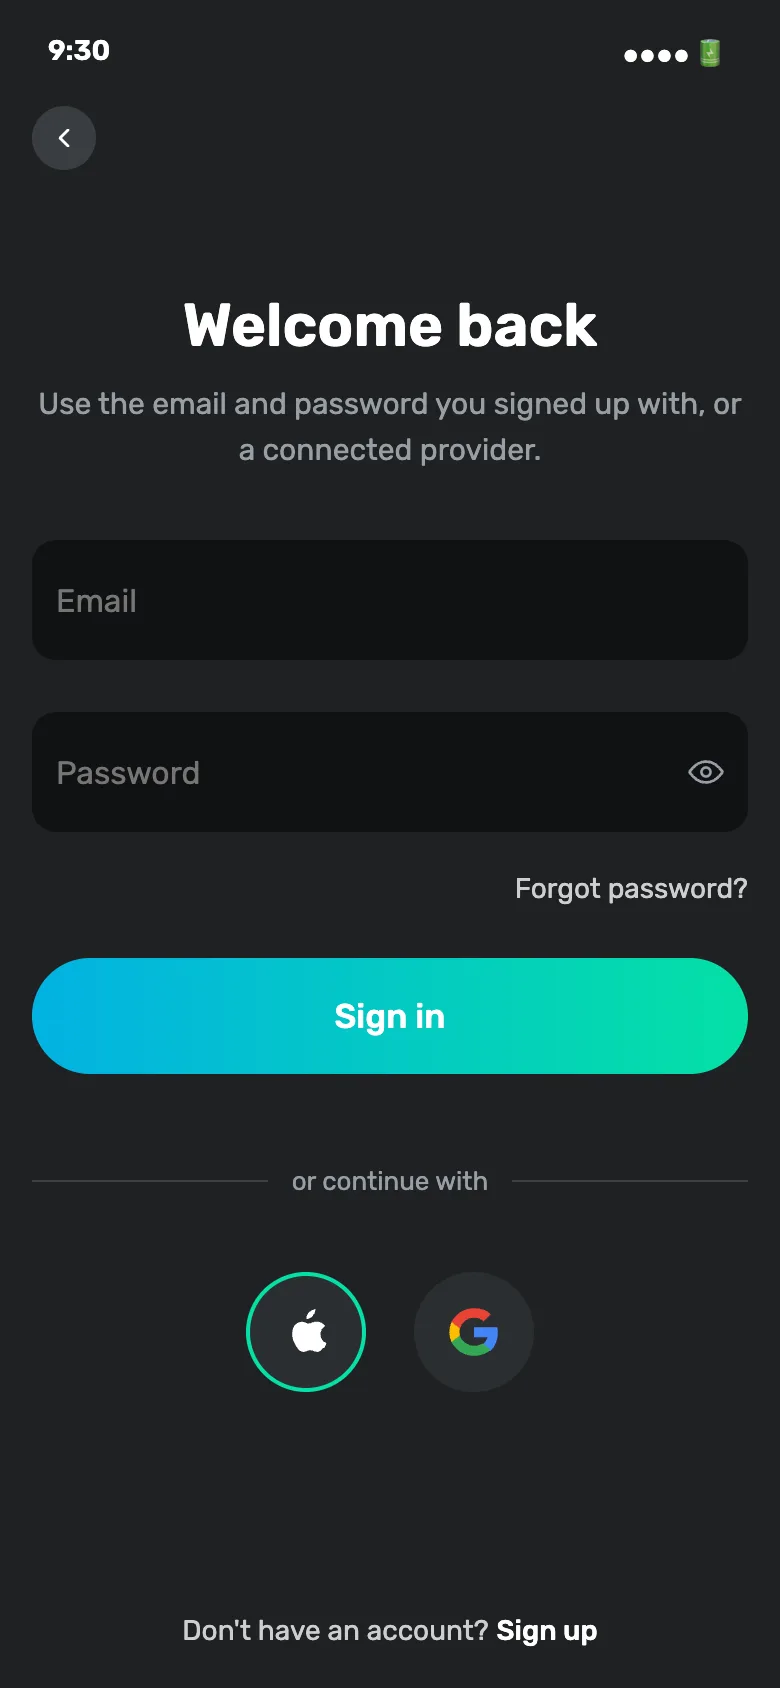
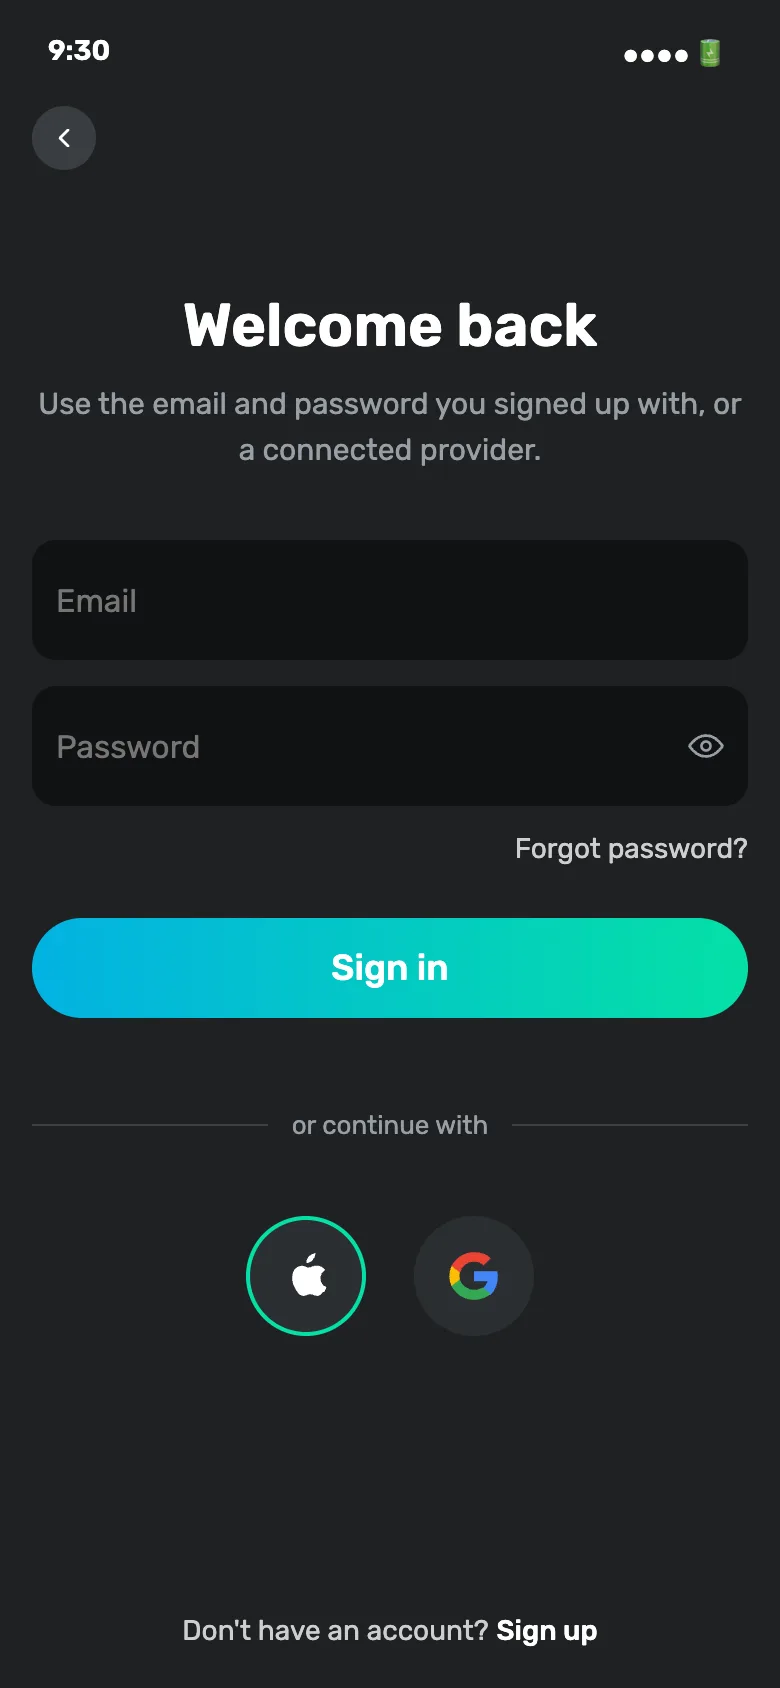
Auth: standard button, and the air belongs between groups not inside one
Two corrections, and the second is the more useful one.

The CTA is back to the kit's 50px. I had grown it to 58 to keep up with the
bigger heading, which is exactly the reflex a design system exists to stop: the
button did not need to change for the screen to feel generous.

Field gap 26 to 13. The rule that fell out of it: the air belongs BETWEEN
groups, not inside one — and two fields are one group. Widening the gap between
them was pulling the form apart rather than giving it rhythm.

Pinned "Forgot password?" at its own offset so it did not silently halve along
with the field gap. The distance from the password to its own footnote is a
separate decision from the distance between two fields.

Measured after: the provider row ends 664px from the top against 698 before and
601 in the old tight layout, the CTA 505 against 539 and 458. So most of the
overshoot I had recorded as the cost of this layout was really the inflated gap
and button — on an SE-class screen the CTA now clears comfortably and the
circles sit right at the fold rather than below it.

diff --git a/prototypes/flows/shared/auth.html b/prototypes/flows/shared/auth.html
@@ -281,16 +281,21 @@
      groups. Ours was top-anchored AND tight, and only the first half of that
      was getting blamed. So: anchor untouched, air doubled.
        heading   24 -> 30px, and it starts lower down the screen
-       fields    56 -> 60px, gap between them 20 -> 26
+       fields    56 -> 60px, and the gap between them 20 -> 13: the air belongs
+                 between GROUPS, not inside one, and two fields are one group
        groups    every seam between two groups roughly doubled
+       button    left at the kit's 50px — it did not need to grow to keep up
      Nothing here moves when the keyboard opens, because nothing is centred. */
   .au-air .au-page-head { text-align: center; padding: 44px 16px 34px; }
   .au-air .au-page-title { font-size: 30px; line-height: 1.2; margin-bottom: 10px; }
   .au-air .au-page-sub { font-size: 15px; line-height: 1.5; }
   .au-air .fit-input { height: 60px; }
-  .au-air .fit-input-group { margin-bottom: 26px; }
+  .au-air .fit-input-group { margin-bottom: 13px; }
+  /* Pinned, so it does not shrink along with the field gap — the distance from
+     the password to its own footnote is a separate decision from the distance
+     between two fields. */
+  .au-air .au-forgot-link-wrap { margin-top: 7px; }
   .au-air .au-cta-wrap { padding: 26px 16px 0; }
-  .au-air .fit-btn-primary { height: 58px; font-size: 17px; }
   .au-air .au-or { padding: 46px 16px 34px; }
   .au-air .au-circle-row { gap: 24px; }
   .au-air .au-provider-circle { width: 60px; height: 60px; }
@@ -1200,7 +1205,7 @@
     <ul>
       <li>Inputs: canonical <code>fit-input-group</code> + <code>fit-input</code>, <strong>no <code>fit-input-label</code></strong>. Two fields whose names are one word each — a label above a placeholder that says the same thing is the label twice. The rule: <em>the label or the placeholder names the field, never both</em>. Keep the label where the placeholder is a format hint instead of a name (phone, the recovery screens).</li>
       <li>Providers: <strong>circles</strong> — kit <code>fit-icon-btn</code> + page-local <code>au-provider-circle</code> (32 → 60px; 32 is a header affordance, a provider choice is a primary target). Under a page-local <code>au-or</code> rule, which names them, so the per-button label was saying it twice. They open native OS sheets — no in-app screen.</li>
-      <li>Rhythm: page-local <code>au-air</code> on <code>fit-phone-content</code> — heading 30px starting 44px down, fields 60px with a 26px gap, doubled seams between groups. Both auth screens share it, so the CTA lands in the same place on each.</li>
+      <li>Rhythm: page-local <code>au-air</code> on <code>fit-phone-content</code> — heading 30px starting 44px down, fields 60px with a tight 13px gap between them, doubled seams between groups. Both auth screens share it, so the CTA lands in the same place on each.</li>
       <li>Rule list: page-local <code>au-pw-rules</code> + <code>au-pw-rule</code> (with <code>.ok</code> / <code>.fail</code> states). Flips <code>circle</code> → <code>check</code> SVG as conditions met.</li>
       <li>CTA: canonical <code>fit-btn fit-btn-primary</code> in <code>au-cta-wrap</code> (16px screen padding).</li>
     </ul>

diff --git a/prototypes/board/board-data.js b/prototypes/board/board-data.js
@@ -10,7 +10,7 @@ window.FIT_BOARD = {
       "screens": [
         {
           "id": "s-role-pick",
-          "hash": "df44dd8b8f41",
+          "hash": "365def0854be",
           "title": "Role pick",
           "inApp": "",
           "status": "canon",
@@ -29,7 +29,7 @@ window.FIT_BOARD = {
         },
         {
           "id": "s-signup-email",
-          "hash": "0842fc98776c",
+          "hash": "03ba92510a92",
           "title": "Sign up",
           "inApp": "",
           "status": "canon",
@@ -48,7 +48,7 @@ window.FIT_BOARD = {
         },
         {
           "id": "s-signin-email",
-          "hash": "e44e628f9138",
+          "hash": "f50992fcb1dc",
           "title": "Sign in",
           "inApp": "",
           "status": "canon",
@@ -67,7 +67,7 @@ window.FIT_BOARD = {
         },
         {
           "id": "s-forgot-email",
-          "hash": "e97e354aba89",
+          "hash": "bc855336850b",
           "title": "Step 1 · enter email",
           "inApp": "",
           "status": "canon",
@@ -86,7 +86,7 @@ window.FIT_BOARD = {
         },
         {
           "id": "s-forgot-otp",
-          "hash": "01a81b8880eb",
+          "hash": "78e96d875765",
           "title": "Step 2 · OTP code",
           "inApp": "",
           "status": "canon",
@@ -105,7 +105,7 @@ window.FIT_BOARD = {
         },
         {
           "id": "s-forgot-new",
-          "hash": "881d15c038a7",
+          "hash": "c21326659aeb",
           "title": "Step 3 · new password",
           "inApp": "",
           "status": "canon",
@@ -124,7 +124,7 @@ window.FIT_BOARD = {
         },
         {
           "id": "s-phone-enter",
-          "hash": "9328aa8acb68",
+          "hash": "73179feba28d",
           "title": "Phone · enter number",
           "inApp": "",
           "status": "canon",
@@ -144,7 +144,7 @@ window.FIT_BOARD = {
         },
         {
           "id": "s-phone-otp",
-          "hash": "383454b96987",
+          "hash": "4062f76893e5",
           "title": "Phone · OTP code",
           "inApp": "",
           "status": "canon",
@@ -164,7 +164,7 @@ window.FIT_BOARD = {
         },
         {
           "id": "s-country-picker",
-          "hash": "0ff5b7467d07",
+          "hash": "96a7b4ad1a87",
           "title": "Country picker",
           "inApp": "Country or region",
           "status": "canon",

diff --git a/specs/authentication.md b/specs/authentication.md
@@ -162,12 +162,18 @@ Both auth screens carry a **Keyboard open** state; on the adopted layout nothing
 at has its heading in the top fifth, same as ours — it looks full because its type is big,
 its fields are tall and its groups are far apart. Ours was top-anchored *and* tight, and
 only the first half was getting the blame. Adopted values: heading 30px starting 44px
-down, fields 60px with a 26px gap, seams between groups roughly doubled, circles 60px.
+down, fields 60px with a **tight 13px gap between them**, seams between groups roughly
+doubled, circles 60px, CTA left at the kit's standard 50px.
 
-**Cost, measured:** the provider row ends 698px from the top against 601 before, the CTA
-539 against 458. Fits with room on 390×844; on an SE-class 667pt screen the CTA still
-clears but the circles fall below the fold — acceptable for a secondary path, recorded so
-it is a decision rather than a surprise.
+The correction that made it work: the air belongs **between groups, not inside one**. Two
+fields are one group, so widening the gap between them pulled the form apart rather than
+giving it rhythm — and the CTA did not need to grow to keep up with a bigger heading.
+
+**Cost, measured after the correction:** the provider row ends **664px** from the top
+against 601 in the tight version, the CTA **505** against 458 — most of the earlier
+overshoot (698 / 539) came from the inflated field gap and button, not from the rhythm.
+Fits with room on 390×844; on an SE-class 667pt screen the CTA clears comfortably and the
+circles sit right at the fold.
 
 **Providers are circles.**
 
